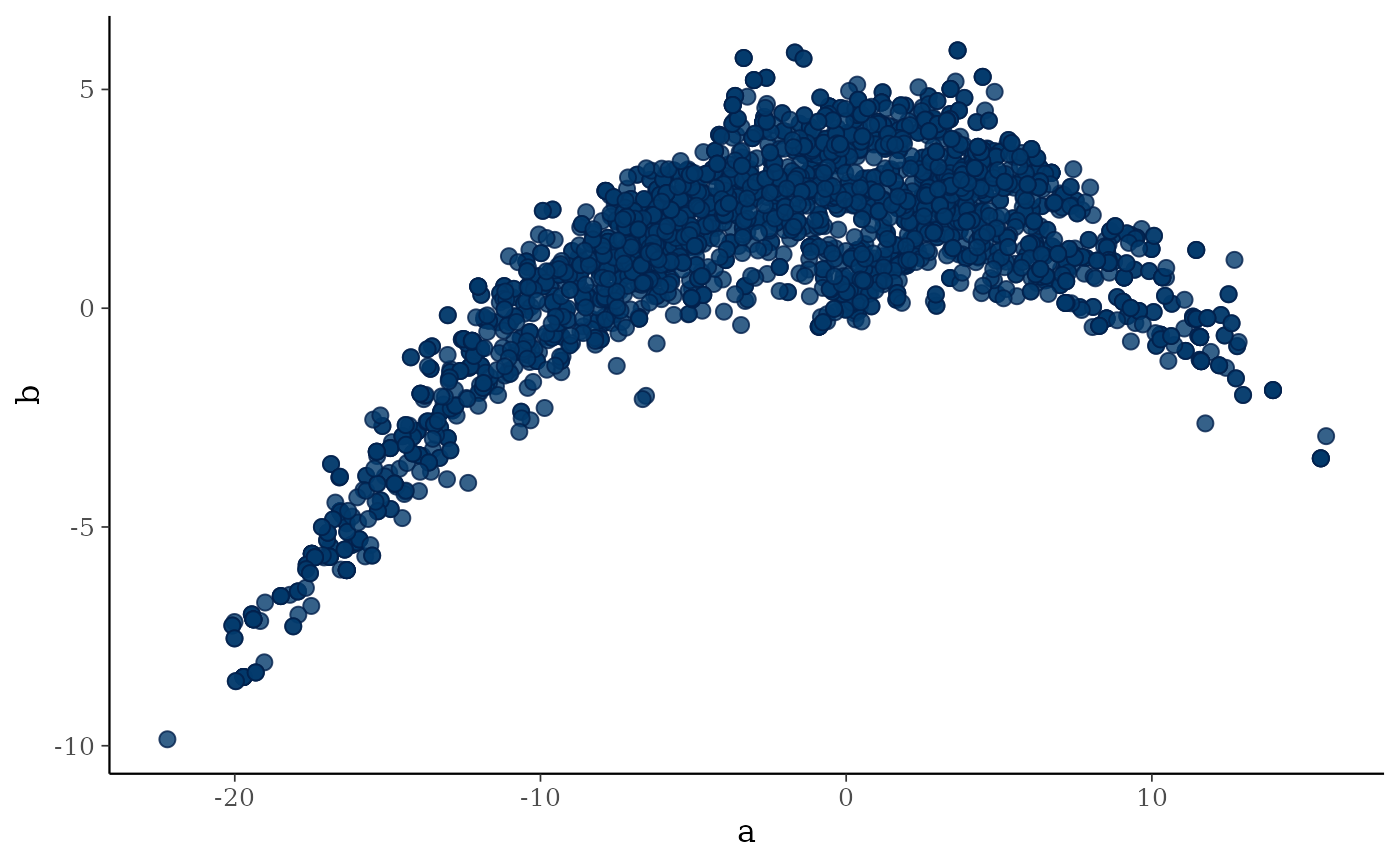
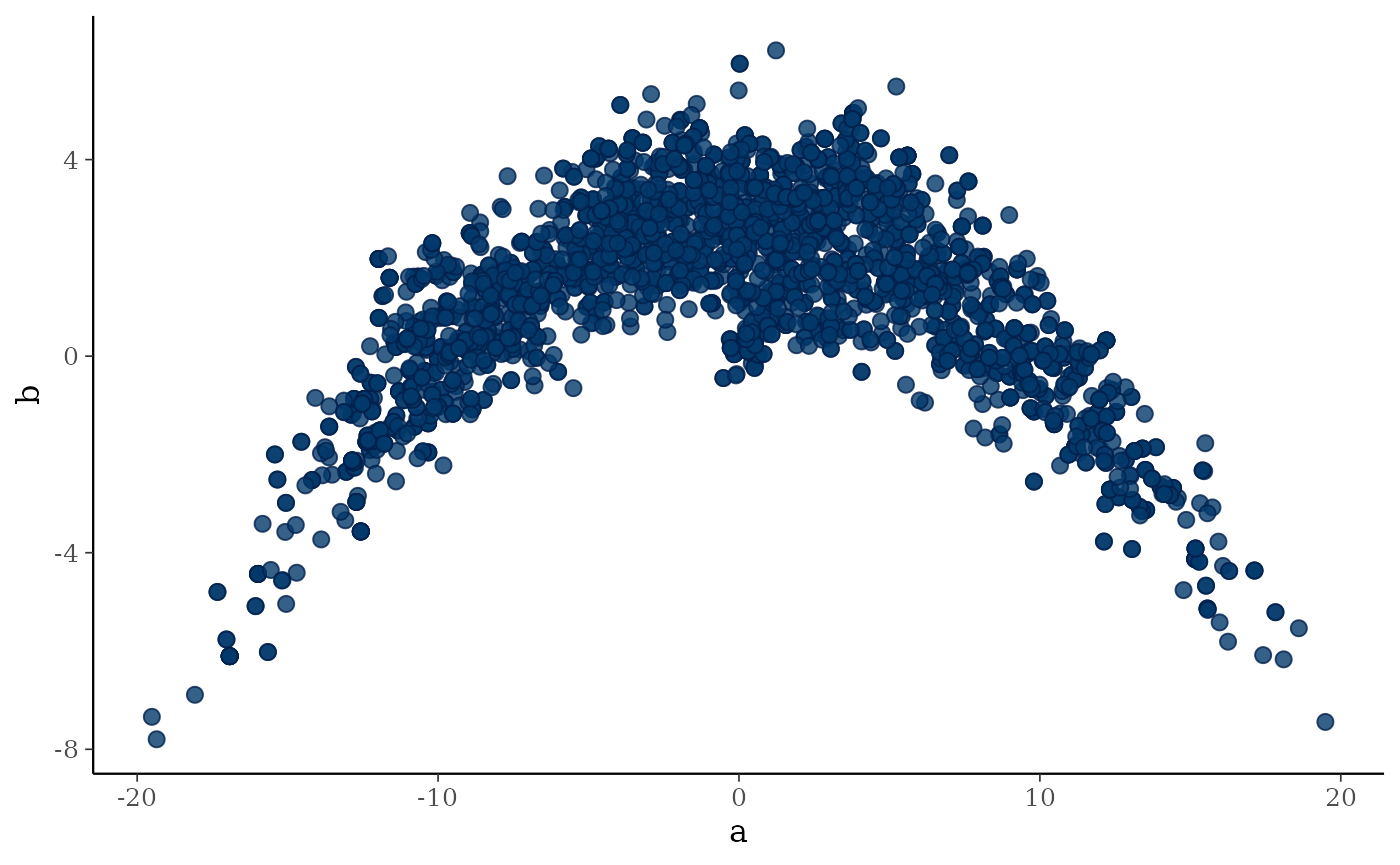
Deploying to gh-pages from @ Bisaloo/mcmcensemble@4241a559b0a70993a281aec261bf1fed8cca5768 🚀

diff --git a/articles/faq.html b/articles/faq.html
@@ -155,15 +155,15 @@ limits for the chains.</p>
 <span><span class="co">#&gt; 1. Empirical mean and standard deviation for each variable,</span></span>
 <span><span class="co">#&gt;    plus standard error of the mean:</span></span>
 <span><span class="co">#&gt; </span></span>
-<span><span class="co">#&gt;     Mean    SD Naive SE Time-series SE</span></span>
-<span><span class="co">#&gt; a -6.278 13.48   0.2461         1.1403</span></span>
-<span><span class="co">#&gt; b -3.973 10.77   0.1967         0.6609</span></span>
+<span><span class="co">#&gt;     Mean     SD Naive SE Time-series SE</span></span>
+<span><span class="co">#&gt; a -5.752 13.780   0.2516         1.3148</span></span>
+<span><span class="co">#&gt; b -4.103  7.469   0.1364         0.6263</span></span>
 <span><span class="co">#&gt; </span></span>
 <span><span class="co">#&gt; 2. Quantiles for each variable:</span></span>
 <span><span class="co">#&gt; </span></span>
-<span><span class="co">#&gt;     2.5%     25%     50%   75%  97.5%</span></span>
-<span><span class="co">#&gt; a -38.91 -13.343 -4.8502 4.966 12.042</span></span>
-<span><span class="co">#&gt; b -43.24  -4.011  0.5419 1.993  4.129</span></span></code></pre></div>
+<span><span class="co">#&gt;     2.5%    25%    50%   75%  97.5%</span></span>
+<span><span class="co">#&gt; a -30.09 -17.02 -6.221 5.538 19.507</span></span>
+<span><span class="co">#&gt; b -24.68  -7.90 -2.128 1.711  3.932</span></span></code></pre></div>
 <div class="sourceCode" id="cb3"><pre class="downlit sourceCode r">
 <code class="sourceCode R"><span><span class="fu"><a href="https://rdrr.io/r/graphics/plot.default.html" class="external-link">plot</a></span><span class="op">(</span><span class="va">res1</span><span class="op">$</span><span class="va">samples</span><span class="op">)</span></span></code></pre></div>
 <p><img src="faq_files/figure-html/unnamed-chunk-3-1.png" width="700"></p>
@@ -187,15 +187,15 @@ limits for the chains.</p>
 <span><span class="co">#&gt; 1. Empirical mean and standard deviation for each variable,</span></span>
 <span><span class="co">#&gt;    plus standard error of the mean:</span></span>
 <span><span class="co">#&gt; </span></span>
-<span><span class="co">#&gt;       Mean     SD Naive SE Time-series SE</span></span>
-<span><span class="co">#&gt; a -0.09898 12.855   0.2347         1.2152</span></span>
-<span><span class="co">#&gt; b -2.09717  6.725   0.1228         0.8834</span></span>
+<span><span class="co">#&gt;      Mean     SD Naive SE Time-series SE</span></span>
+<span><span class="co">#&gt; a -3.9285 10.591   0.1934         0.6925</span></span>
+<span><span class="co">#&gt; b -0.8462  7.234   0.1321         0.6588</span></span>
 <span><span class="co">#&gt; </span></span>
 <span><span class="co">#&gt; 2. Quantiles for each variable:</span></span>
 <span><span class="co">#&gt; </span></span>
-<span><span class="co">#&gt;     2.5%    25%     50%   75%  97.5%</span></span>
-<span><span class="co">#&gt; a -25.84 -8.204 -1.0706 7.676 25.682</span></span>
-<span><span class="co">#&gt; b -17.87 -4.265  0.8704 2.496  4.283</span></span></code></pre></div>
+<span><span class="co">#&gt;     2.5%     25%    50%   75%  97.5%</span></span>
+<span><span class="co">#&gt; a -30.14 -8.0312 -1.855 3.464 11.283</span></span>
+<span><span class="co">#&gt; b -24.50 -0.3771  1.615 2.718  4.621</span></span></code></pre></div>
 <div class="sourceCode" id="cb5"><pre class="downlit sourceCode r">
 <code class="sourceCode R"><span><span class="fu"><a href="https://rdrr.io/r/graphics/plot.default.html" class="external-link">plot</a></span><span class="op">(</span><span class="va">res2</span><span class="op">$</span><span class="va">samples</span><span class="op">)</span></span></code></pre></div>
 <p><img src="faq_files/figure-html/unnamed-chunk-5-1.png" width="700"></p>
@@ -243,14 +243,14 @@ the function <code>f</code> you provide.</p>
 <span><span class="co">#&gt;    plus standard error of the mean:</span></span>
 <span><span class="co">#&gt; </span></span>
 <span><span class="co">#&gt;     Mean     SD Naive SE Time-series SE</span></span>
-<span><span class="co">#&gt; a 0.4893 0.2933 0.005354        0.02960</span></span>
-<span><span class="co">#&gt; b 0.6585 0.2659 0.004854        0.02577</span></span>
+<span><span class="co">#&gt; a 0.4793 0.2777 0.005071        0.02978</span></span>
+<span><span class="co">#&gt; b 0.6765 0.2537 0.004633        0.02676</span></span>
 <span><span class="co">#&gt; </span></span>
 <span><span class="co">#&gt; 2. Quantiles for each variable:</span></span>
 <span><span class="co">#&gt; </span></span>
 <span><span class="co">#&gt;      2.5%    25%    50%    75%  97.5%</span></span>
-<span><span class="co">#&gt; a 0.01970 0.2284 0.4886 0.7428 0.9728</span></span>
-<span><span class="co">#&gt; b 0.05949 0.4930 0.7391 0.8683 0.9904</span></span></code></pre></div>
+<span><span class="co">#&gt; a 0.01499 0.2455 0.4815 0.7073 0.9569</span></span>
+<span><span class="co">#&gt; b 0.08775 0.5127 0.7478 0.8829 0.9944</span></span></code></pre></div>
 <div class="sourceCode" id="cb7"><pre class="downlit sourceCode r">
 <code class="sourceCode R"><span><span class="fu"><a href="https://rdrr.io/r/graphics/plot.default.html" class="external-link">plot</a></span><span class="op">(</span><span class="va">res</span><span class="op">$</span><span class="va">samples</span><span class="op">)</span></span></code></pre></div>
 <p><img src="faq_files/figure-html/unnamed-chunk-7-1.png" width="700"></p>
@@ -292,14 +292,14 @@ log-posterior and it is not necessary to define it explicitly:</p>
 <span><span class="co">#&gt;    plus standard error of the mean:</span></span>
 <span><span class="co">#&gt; </span></span>
 <span><span class="co">#&gt;     Mean     SD Naive SE Time-series SE</span></span>
-<span><span class="co">#&gt; a 0.5154 0.2902 0.004104        0.02478</span></span>
-<span><span class="co">#&gt; b 0.6838 0.2356 0.003332        0.02035</span></span>
+<span><span class="co">#&gt; a 0.4734 0.2966 0.004195        0.02474</span></span>
+<span><span class="co">#&gt; b 0.6475 0.2566 0.003629        0.02071</span></span>
 <span><span class="co">#&gt; </span></span>
 <span><span class="co">#&gt; 2. Quantiles for each variable:</span></span>
 <span><span class="co">#&gt; </span></span>
 <span><span class="co">#&gt;      2.5%    25%    50%    75%  97.5%</span></span>
-<span><span class="co">#&gt; a 0.02785 0.2611 0.5357 0.7700 0.9854</span></span>
-<span><span class="co">#&gt; b 0.12319 0.5347 0.7367 0.8734 0.9893</span></span></code></pre></div>
+<span><span class="co">#&gt; a 0.01453 0.2200 0.4412 0.7289 0.9801</span></span>
+<span><span class="co">#&gt; b 0.08452 0.4832 0.7014 0.8614 0.9866</span></span></code></pre></div>
 <div class="sourceCode" id="cb9"><pre class="downlit sourceCode r">
 <code class="sourceCode R"><span><span class="fu"><a href="https://rdrr.io/r/graphics/plot.default.html" class="external-link">plot</a></span><span class="op">(</span><span class="va">res</span><span class="op">$</span><span class="va">samples</span><span class="op">)</span></span></code></pre></div>
 <p><img src="faq_files/figure-html/unnamed-chunk-9-1.png" width="700"></p>

diff --git a/articles/blog/blog_v3.html b/articles/blog/blog_v3.html
@@ -162,15 +162,15 @@ do:</p>
 <span><span class="co">## 1. Empirical mean and standard deviation for each variable,</span></span>
 <span><span class="co">##    plus standard error of the mean:</span></span>
 <span><span class="co">## </span></span>
-<span><span class="co">##      Mean     SD Naive SE Time-series SE</span></span>
-<span><span class="co">## a -1.5417 10.127  0.14322         1.0682</span></span>
-<span><span class="co">## b -0.1906  4.281  0.06055         0.6273</span></span>
+<span><span class="co">##      Mean    SD Naive SE Time-series SE</span></span>
+<span><span class="co">## a -1.1480 9.514  0.13455         1.1151</span></span>
+<span><span class="co">## b  0.1388 3.746  0.05298         0.4102</span></span>
 <span><span class="co">## </span></span>
 <span><span class="co">## 2. Quantiles for each variable:</span></span>
 <span><span class="co">## </span></span>
-<span><span class="co">##     2.5%    25%    50%   75%  97.5%</span></span>
-<span><span class="co">## a -17.46 -9.340 -2.852 4.802 21.592</span></span>
-<span><span class="co">## b -12.08 -1.358  1.037 2.443  4.202</span></span></code></pre>
+<span><span class="co">##     2.5%    25%     50%   75%  97.5%</span></span>
+<span><span class="co">## a -21.46 -7.431 -0.5148 5.785 16.278</span></span>
+<span><span class="co">## b -11.07 -1.045  1.3233 2.534  4.225</span></span></code></pre>
 <div class="sourceCode" id="cb7"><pre class="downlit sourceCode r">
 <code class="sourceCode R"><span><span class="fu"><a href="https://rdrr.io/r/graphics/plot.default.html" class="external-link">plot</a></span><span class="op">(</span><span class="va">res</span><span class="op">$</span><span class="va">samples</span><span class="op">)</span></span></code></pre></div>
 <p><img src="blog_v3_files/figure-html/unnamed-chunk-2-1.png" width="700"></p>
@@ -199,15 +199,15 @@ Sobol sequence</a> available in the <a href="https://www.spacefillr.com/" class=
 <span><span class="co">## 1. Empirical mean and standard deviation for each variable,</span></span>
 <span><span class="co">##    plus standard error of the mean:</span></span>
 <span><span class="co">## </span></span>
-<span><span class="co">##            Mean    SD Naive SE Time-series SE</span></span>
-<span><span class="co">## para_1 -0.09748 9.288  0.13135         1.2588</span></span>
-<span><span class="co">## para_2  0.39403 3.711  0.05248         0.5186</span></span>
+<span><span class="co">##          Mean    SD Naive SE Time-series SE</span></span>
+<span><span class="co">## para_1 0.3774 8.990  0.12714         1.2219</span></span>
+<span><span class="co">## para_2 0.5357 3.238  0.04579         0.4396</span></span>
 <span><span class="co">## </span></span>
 <span><span class="co">## 2. Quantiles for each variable:</span></span>
 <span><span class="co">## </span></span>
-<span><span class="co">##          2.5%     25%     50%   75%  97.5%</span></span>
-<span><span class="co">## para_1 -18.93 -6.1488 -0.2544 5.786 18.991</span></span>
-<span><span class="co">## para_2 -10.76 -0.4612  1.5266 2.670  4.316</span></span></code></pre>
+<span><span class="co">##           2.5%     25%   50%   75%  97.5%</span></span>
+<span><span class="co">## para_1 -18.928 -5.3167 0.774 7.048 16.266</span></span>
+<span><span class="co">## para_2  -9.294 -0.4218 1.476 2.695  4.325</span></span></code></pre>
 <div class="sourceCode" id="cb12"><pre class="downlit sourceCode r">
 <code class="sourceCode R"><span><span class="fu"><a href="https://rdrr.io/r/graphics/plot.default.html" class="external-link">plot</a></span><span class="op">(</span><span class="va">res</span><span class="op">$</span><span class="va">samples</span><span class="op">)</span></span></code></pre></div>
 <p><img src="blog_v3_files/figure-html/unnamed-chunk-3-1.png" width="700"></p>
@@ -250,14 +250,14 @@ short:</p>
 <span><span class="co">##    plus standard error of the mean:</span></span>
 <span><span class="co">## </span></span>
 <span><span class="co">##     Mean     SD Naive SE Time-series SE</span></span>
-<span><span class="co">## a 0.4045 0.3756  0.05312        0.02178</span></span>
-<span><span class="co">## b 0.7410 0.5493  0.07769        0.04385</span></span>
+<span><span class="co">## a 0.5925 0.8864  0.12536        0.07851</span></span>
+<span><span class="co">## b 0.5825 0.5392  0.07626        0.04790</span></span>
 <span><span class="co">## </span></span>
 <span><span class="co">## 2. Quantiles for each variable:</span></span>
 <span><span class="co">## </span></span>
 <span><span class="co">##      2.5%    25%    50%    75% 97.5%</span></span>
-<span><span class="co">## a -0.2486 0.1994 0.3738 0.5798 1.185</span></span>
-<span><span class="co">## b  0.1575 0.4517 0.5866 0.8177 2.225</span></span></code></pre>
+<span><span class="co">## a -1.5280 0.2495 0.6015 0.9862 2.252</span></span>
+<span><span class="co">## b -0.6924 0.4502 0.6511 0.8021 1.661</span></span></code></pre>
 <div class="sourceCode" id="cb17"><pre class="downlit sourceCode r">
 <code class="sourceCode R"><span><span class="fu"><a href="https://rdrr.io/r/graphics/plot.default.html" class="external-link">plot</a></span><span class="op">(</span><span class="va">short</span><span class="op">$</span><span class="va">samples</span><span class="op">)</span></span></code></pre></div>
 <p><img src="blog_v3_files/figure-html/unnamed-chunk-4-1.png" width="700"></p>

diff --git a/reference/MCMCEnsemble.html b/reference/MCMCEnsemble.html
@@ -223,14 +223,14 @@ Communications in Applied Mathematics and Computational Science, 5(1), 65–80,
 <span class="r-out co"><span class="r-pr">#&gt;</span>    plus standard error of the mean:</span>
 <span class="r-out co"><span class="r-pr">#&gt;</span> </span>
 <span class="r-out co"><span class="r-pr">#&gt;</span>     Mean    SD Naive SE Time-series SE</span>
-<span class="r-out co"><span class="r-pr">#&gt;</span> a 0.9780 5.372   0.3102         0.7995</span>
-<span class="r-out co"><span class="r-pr">#&gt;</span> b 0.8137 2.299   0.1327         0.3459</span>
+<span class="r-out co"><span class="r-pr">#&gt;</span> a 1.3131 5.500   0.3175         0.9609</span>
+<span class="r-out co"><span class="r-pr">#&gt;</span> b 0.8445 2.317   0.1338         0.2889</span>
 <span class="r-out co"><span class="r-pr">#&gt;</span> </span>
 <span class="r-out co"><span class="r-pr">#&gt;</span> 2. Quantiles for each variable:</span>
 <span class="r-out co"><span class="r-pr">#&gt;</span> </span>
 <span class="r-out co"><span class="r-pr">#&gt;</span>     2.5%     25%    50%   75%  97.5%</span>
-<span class="r-out co"><span class="r-pr">#&gt;</span> a -8.442 -0.9873 0.5032 2.014 18.184</span>
-<span class="r-out co"><span class="r-pr">#&gt;</span> b -7.112  0.2433 1.0596 2.323  3.636</span>
+<span class="r-out co"><span class="r-pr">#&gt;</span> a -9.340 -1.2883 0.3415 3.516 17.757</span>
+<span class="r-out co"><span class="r-pr">#&gt;</span> b -8.013  0.2893 0.8023 1.949  3.984</span>
 <span class="r-out co"><span class="r-pr">#&gt;</span> </span>
 <span class="r-in"><span><span class="fu"><a href="https://rdrr.io/r/graphics/plot.default.html" class="external-link">plot</a></span><span class="op">(</span><span class="va">res2</span><span class="op">$</span><span class="va">samples</span><span class="op">)</span></span></span>
 <span class="r-plt img"><img src="MCMCEnsemble-1.png" alt="" width="700" height="433"></span>
@@ -255,15 +255,15 @@ Communications in Applied Mathematics and Computational Science, 5(1), 65–80,
 <span class="r-out co"><span class="r-pr">#&gt;</span> 1. Empirical mean and standard deviation for each variable,</span>
 <span class="r-out co"><span class="r-pr">#&gt;</span>    plus standard error of the mean:</span>
 <span class="r-out co"><span class="r-pr">#&gt;</span> </span>
-<span class="r-out co"><span class="r-pr">#&gt;</span>    Mean    SD Naive SE Time-series SE</span>
-<span class="r-out co"><span class="r-pr">#&gt;</span> a 1.210 6.350  0.36659         0.7496</span>
-<span class="r-out co"><span class="r-pr">#&gt;</span> b 1.166 1.593  0.09198         0.2027</span>
+<span class="r-out co"><span class="r-pr">#&gt;</span>     Mean    SD Naive SE Time-series SE</span>
+<span class="r-out co"><span class="r-pr">#&gt;</span> a 2.1487 8.259   0.4769         1.3756</span>
+<span class="r-out co"><span class="r-pr">#&gt;</span> b 0.5588 3.759   0.2170         0.6461</span>
 <span class="r-out co"><span class="r-pr">#&gt;</span> </span>
 <span class="r-out co"><span class="r-pr">#&gt;</span> 2. Quantiles for each variable:</span>
 <span class="r-out co"><span class="r-pr">#&gt;</span> </span>
-<span class="r-out co"><span class="r-pr">#&gt;</span>      2.5%    25%   50%   75%  97.5%</span>
-<span class="r-out co"><span class="r-pr">#&gt;</span> a -12.691 -2.052 1.397 6.563 10.531</span>
-<span class="r-out co"><span class="r-pr">#&gt;</span> b  -3.013  0.320 1.404 2.198  3.712</span>
+<span class="r-out co"><span class="r-pr">#&gt;</span>     2.5%    25%    50%   75%  97.5%</span>
+<span class="r-out co"><span class="r-pr">#&gt;</span> a -14.95 -2.905 0.7527 5.261 20.854</span>
+<span class="r-out co"><span class="r-pr">#&gt;</span> b -11.78 -0.483 1.4058 3.402  4.226</span>
 <span class="r-out co"><span class="r-pr">#&gt;</span> </span>
 <span class="r-in"><span><span class="fu"><a href="https://rdrr.io/r/graphics/plot.default.html" class="external-link">plot</a></span><span class="op">(</span><span class="va">res3</span><span class="op">$</span><span class="va">samples</span><span class="op">)</span></span></span>
 <span class="r-plt img"><img src="MCMCEnsemble-2.png" alt="" width="700" height="433"></span>

diff --git a/articles/diagnostic-pkgs.html b/articles/diagnostic-pkgs.html
@@ -177,15 +177,15 @@ result. This element is of class <code>mcmc.list</code>:</p>
 <span><span class="co">#&gt; 1. Empirical mean and standard deviation for each variable,</span></span>
 <span><span class="co">#&gt;    plus standard error of the mean:</span></span>
 <span><span class="co">#&gt; </span></span>
-<span><span class="co">#&gt;      Mean     SD Naive SE Time-series SE</span></span>
-<span><span class="co">#&gt; a  1.7088 10.254  0.18720         1.1741</span></span>
-<span><span class="co">#&gt; b -0.4099  4.032  0.07362         0.3533</span></span>
+<span><span class="co">#&gt;     Mean    SD Naive SE Time-series SE</span></span>
+<span><span class="co">#&gt; a 0.4874 9.061  0.16542         1.0433</span></span>
+<span><span class="co">#&gt; b 0.4285 3.063  0.05591         0.3761</span></span>
 <span><span class="co">#&gt; </span></span>
 <span><span class="co">#&gt; 2. Quantiles for each variable:</span></span>
 <span><span class="co">#&gt; </span></span>
-<span><span class="co">#&gt;     2.5%    25%    50%   75%  97.5%</span></span>
-<span><span class="co">#&gt; a -17.25 -5.973 1.1492 8.376 21.817</span></span>
-<span><span class="co">#&gt; b -11.00 -1.725 0.9986 2.253  4.152</span></span></code></pre></div>
+<span><span class="co">#&gt;      2.5%    25%    50%   75%  97.5%</span></span>
+<span><span class="co">#&gt; a -16.368 -5.809 0.5198 6.812 16.310</span></span>
+<span><span class="co">#&gt; b  -6.636 -1.349 1.1132 2.610  4.345</span></span></code></pre></div>
 <div class="sourceCode" id="cb6"><pre class="downlit sourceCode r">
 <code class="sourceCode R"><span><span class="fu"><a href="https://rdrr.io/r/graphics/plot.default.html" class="external-link">plot</a></span><span class="op">(</span><span class="va">res</span><span class="op">$</span><span class="va">samples</span><span class="op">)</span></span></code></pre></div>
 <p><img src="diagnostic-pkgs_files/figure-html/unnamed-chunk-6-1.png" width="700"></p>
@@ -193,8 +193,8 @@ result. This element is of class <code>mcmc.list</code>:</p>
 <code><a href="https://rdrr.io/pkg/coda/man/effectiveSize.html" class="external-link">effectiveSize()</a></code>:</p>
 <div class="sourceCode" id="cb7"><pre class="downlit sourceCode r">
 <code class="sourceCode R"><span><span class="fu"><a href="https://rdrr.io/pkg/coda/man/effectiveSize.html" class="external-link">effectiveSize</a></span><span class="op">(</span><span class="va">res</span><span class="op">$</span><span class="va">samples</span><span class="op">)</span></span>
-<span><span class="co">#&gt;         a         b </span></span>
-<span><span class="co">#&gt;  59.27473 113.52668</span></span></code></pre></div>
+<span><span class="co">#&gt;        a        b </span></span>
+<span><span class="co">#&gt; 61.24944 89.37153</span></span></code></pre></div>
 <p>Please report to coda documentation to see the complete list of
 available functions.</p>
 </div>

diff --git a/news/index.html b/news/index.html
@@ -78,6 +78,10 @@
 
     <div class="section level2">
 <h2 class="page-header" data-toc-text="development version" id="mcmcensemble-development-version">mcmcensemble (development version)<a class="anchor" aria-label="anchor" href="#mcmcensemble-development-version"></a></h2>
+<div class="section level3">
+<h3 id="bug-fixes-development-version">Bug fixes<a class="anchor" aria-label="anchor" href="#bug-fixes-development-version"></a></h3>
+<ul><li>a bug resulting in weak correlation across walkers has been resolved (<a href="https://github.com/Bisaloo/mcmcensemble/issues/9" class="external-link">#9</a>, <a href="https://github.com/scheidan" class="external-link">@scheidan</a>). Runs from this version will therefore produce results different than with previous versions, even for a given seed.</li>
+</ul></div>
 </div>
     <div class="section level2">
 <h2 class="page-header" data-toc-text="3.1.0" id="mcmcensemble-310">mcmcensemble 3.1.0<small>2024-03-20</small><a class="anchor" aria-label="anchor" href="#mcmcensemble-310"></a></h2>
